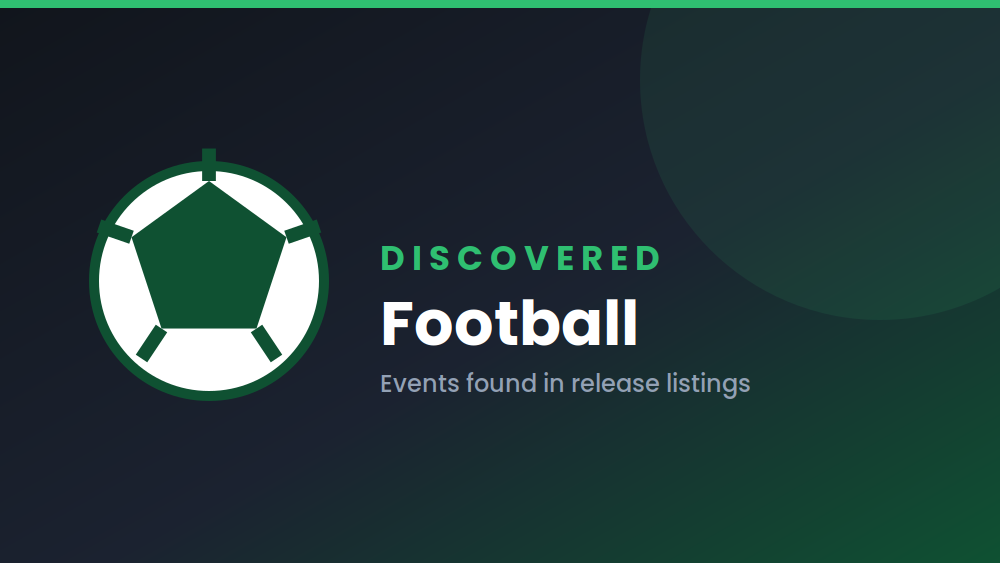
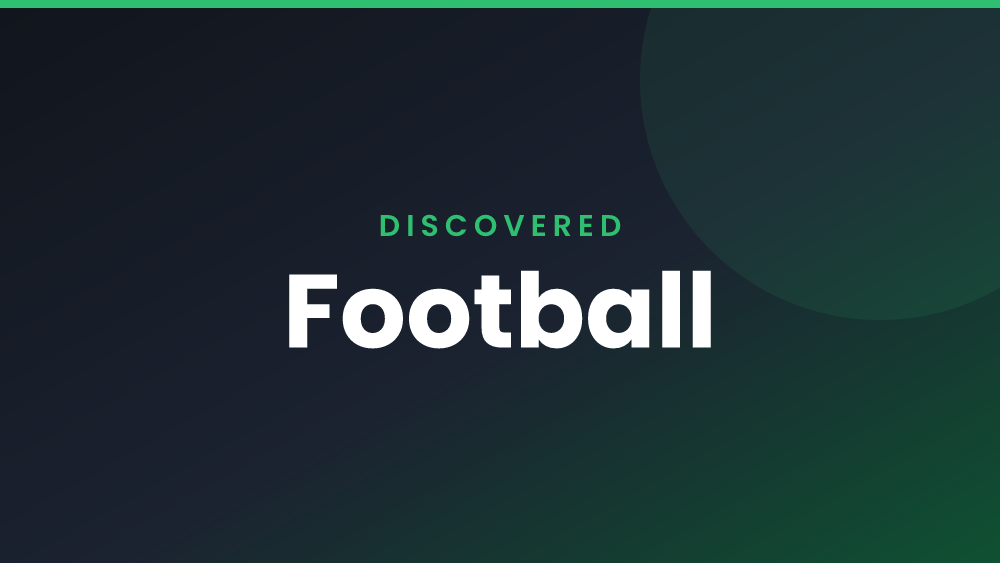
Fallback cards for every promotion, name only
Drop the glyph and the explanation line; each card is now the kicker and
the promotion name. Cards added for NFL, NBA, NHL, Champions League,
Premier League and Match of the Day, and the Discovered tiles are redrawn
in the same style (make-discovered-art.py folded into
make-promotion-art.js).

Changed region(s): [[0.062, 0.2416, 0.713, 0.7247], [0.372, 0.6643, 0.775, 0.7247]]

diff --git a/scripts/make-promotion-art.js b/scripts/make-promotion-art.js
@@ -1,22 +1,23 @@
 #!/usr/bin/env node
 'use strict';
 
-// Generate the bundled fallback artwork for the built-in promotions.
+// Generate the bundled fallback artwork for every built-in promotion and the
+// seven Discovered catalogs.
 //
 // An event with no image of its own is shown with its promotion's default.
 // Those defaults were TheSportsDB league banners and badges from 2014-2020
 // (MotoGP's 2015 banner with the old logo, UFC's 2016 roster, AEW's 2019
-// banner, the old WWE badge) and three plain logo cards, and 128 MotoGP
-// events alone showed that 2015 banner. These cards replace them: drawn from
-// scratch, no league logos, the same frame as the Discovered tiles
-// (scripts/make-discovered-art.py) so every fallback reads as one set.
+// banner, the old WWE badge) and plain logo cards, and 128 MotoGP events
+// alone showed that 2015 banner (issue #69). These cards replace them: a
+// kicker and a name on the same frame for every promotion, no league logos,
+// so every fallback reads as one set.
 //
 // Run from the repo root:
 //   npm i --no-save @resvg/resvg-js
-//   node scripts/make-promotion-art.js [path/to/Poppins-*.ttf folder]
-// Writes public/promo-<id>.png: 1000x563 landscape for every promotion, plus
-// public/promo-<id>-poster.png (600x900) or -square.png (600x600) for the
-// promotions whose tiles are that shape.
+//   node scripts/make-promotion-art.js [folder with Poppins-*.ttf]
+// Writes public/promo-<id>.png (1000x563 landscape) for every promotion, plus
+// promo-<id>-poster.png (600x900) or promo-<id>-square.png (600x600) where the
+// promotion's tiles are that shape, and public/discovered-<sport>.png.
 
 const fs = require('fs');
 const path = require('path');
@@ -25,92 +26,50 @@ const { Resvg } = require('@resvg/resvg-js');
 const OUT = path.join(__dirname, '..', 'public');
 const FONT_DIR = process.argv[2] || path.join(__dirname, 'fonts');
 
-// Glyphs are drawn in a 200x200 box at 0,0; {deep} is the promotion's deep accent.
-const FLAG = `
-  <path d="M34 14 V192" stroke="#ffffff" stroke-width="11" stroke-linecap="round"/>
-  <g transform="translate(40 18)">
-    <path d="M0 0 C40 -10 80 14 150 2 V100 C80 112 40 88 0 98 Z" fill="#ffffff"/>
-    <clipPath id="flagclip"><path d="M0 0 C40 -10 80 14 150 2 V100 C80 112 40 88 0 98 Z"/></clipPath>
-    <g clip-path="url(#flagclip)" fill="{deep}">
-      ${[0, 1, 2, 3, 4].map((c) => [0, 1, 2, 3].filter((r) => (c + r) % 2 === 0)
-        .map((r) => `<rect x="${c * 30}" y="${r * 26 - 10}" width="30" height="${r === 3 ? 34 : 26}"/>`).join('')).join('')}
-    </g>
-  </g>`;
-
-const HELMET = `
-  <clipPath id="helmetclip"><path d="M22 132 C20 66 70 24 126 26 C168 28 192 66 190 110 V136 C190 150 180 160 166 160 H52 C34 160 22 150 22 132 Z"/></clipPath>
-  <path d="M22 132 C20 66 70 24 126 26 C168 28 192 66 190 110 V136 C190 150 180 160 166 160 H52 C34 160 22 150 22 132 Z" fill="#ffffff"/>
-  <path clip-path="url(#helmetclip)" d="M112 66 H200 V108 H122 C113 108 106 101 106 92 V74 C106 69 108 66 112 66 Z" fill="{deep}"/>
-  <path d="M36 132 H150" stroke="{deep}" stroke-width="8" stroke-linecap="round"/>
-  <path d="M52 92 C60 64 84 46 110 42" stroke="{deep}" stroke-width="8" stroke-linecap="round" fill="none"/>`;
-
-function octagon(r) {
-  return Array.from({ length: 8 }, (_, k) => {
-    const a = (Math.PI / 8) + k * Math.PI / 4;
-    return (100 + r * Math.cos(a)).toFixed(1) + ',' + (100 + r * Math.sin(a)).toFixed(1);
-  }).join(' ');
-}
-const OCTAGON = `
-  <polygon points="${octagon(96)}" fill="#ffffff"/>
-  <polygon points="${octagon(78)}" fill="{deep}"/>
-  <polygon points="${octagon(62)}" fill="none" stroke="#ffffff" stroke-width="5" opacity="0.55"/>
-  <path d="M100 38 V162 M38 100 H162" stroke="#ffffff" stroke-width="4" opacity="0.35"/>`;
-
-const GLOVE = `
-  <path d="M64 58 C64 28 94 14 124 18 C164 23 184 54 180 96 C177 126 162 142 144 148 V178 H74 V148 C54 138 44 120 48 102 C38 98 32 86 34 74 C36 58 52 50 64 58 Z" fill="#ffffff"/>
-  <path d="M74 152 H144" stroke="{deep}" stroke-width="9"/>
-  <path d="M74 166 H144" stroke="{deep}" stroke-width="5" opacity="0.6"/>
-  <path d="M62 62 C68 84 80 96 102 98" stroke="{deep}" stroke-width="8" fill="none" stroke-linecap="round"/>`;
-
-const STAR = (cx, cy, r) => {
-  const pts = [];
-  for (let i = 0; i < 10; i++) {
-    const a = -Math.PI / 2 + i * Math.PI / 5;
-    const rr = i % 2 ? r * 0.45 : r;
-    pts.push((cx + rr * Math.cos(a)).toFixed(1) + ',' + (cy + rr * Math.sin(a)).toFixed(1));
-  }
-  return `<polygon points="${pts.join(' ')}" fill="{deep}"/>`;
-};
-const BELT = `
-  <rect x="2" y="78" width="196" height="44" rx="16" fill="#ffffff"/>
-  <path d="M14 100 H186" stroke="{deep}" stroke-width="4" stroke-dasharray="6 8" opacity="0.6"/>
-  <ellipse cx="100" cy="100" rx="62" ry="50" fill="{deep}" stroke="#ffffff" stroke-width="9"/>
-  <ellipse cx="100" cy="100" rx="40" ry="30" fill="#ffffff"/>
-  ${STAR(100, 101, 22)}
-  <circle cx="22" cy="100" r="9" fill="{deep}"/>
-  <circle cx="178" cy="100" r="9" fill="{deep}"/>`;
-
-const BASEBALL = `
-  <circle cx="100" cy="100" r="92" fill="#ffffff"/>
-  <circle cx="100" cy="100" r="92" fill="none" stroke="{deep}" stroke-width="9"/>
-  <path d="M40 26 C74 74 74 126 40 174" stroke="{deep}" stroke-width="8" fill="none"/>
-  <path d="M160 26 C126 74 126 126 160 174" stroke="{deep}" stroke-width="8" fill="none"/>
-  <path d="M52 52 L66 44 M50 74 L65 68 M49 100 L64 100 M50 126 L65 132 M52 148 L66 156"
-        stroke="{deep}" stroke-width="7" stroke-linecap="round"/>
-  <path d="M148 52 L134 44 M150 74 L135 68 M151 100 L136 100 M150 126 L135 132 M148 148 L134 156"
-        stroke="{deep}" stroke-width="7" stroke-linecap="round"/>`;
-
-// id, kicker, title, subtitle, accent, deep accent, glyph, extra shape
-const PROMOTIONS = [
-  ['f1', 'MOTORSPORT', 'Formula 1', 'Practice, qualifying and the race', '#e8352b', '#5c0f0b', FLAG],
-  ['motogp', 'MOTORSPORT', 'MotoGP', 'Grand Prix motorcycle racing', '#ff6a1a', '#6b2508', HELMET],
-  ['ufc', 'MIXED MARTIAL ARTS', 'UFC', 'Numbered events and Fight Nights', '#d93a3a', '#5a1010', OCTAGON],
-  ['one', 'MARTIAL ARTS', 'ONE Championship', 'MMA, Muay Thai and kickboxing', '#f2b705', '#5c4502', OCTAGON],
-  ['boxing', 'COMBAT SPORTS', 'Boxing', 'Title fights and fight nights', '#d4a93a', '#57410c', GLOVE, 'poster'],
-  ['wwe', 'WRESTLING', 'WWE', 'Premium live events', '#e03a45', '#5b0f15', BELT],
-  ['wwe-raw', 'WWE', 'Raw', 'Every Monday', '#e03a45', '#5b0f15', BELT],
-  ['wwe-smackdown', 'WWE', 'SmackDown', 'Every Friday', '#3b82f6', '#102c5c', BELT],
-  ['wwe-nxt', 'WWE', 'NXT', 'Every Tuesday', '#e3c14b', '#4d3f0c', BELT],
-  ['aew', 'WRESTLING', 'AEW', 'Pay-per-views', '#c9a24a', '#4a3a12', BELT],
-  ['aew-dynamite', 'AEW', 'Dynamite', 'Every Wednesday', '#c9a24a', '#4a3a12', BELT],
-  ['aew-collision', 'AEW', 'Collision', 'Every Saturday', '#8b9bb4', '#263247', BELT],
-  ['mlb', 'BASEBALL', 'MLB', 'Regular season and postseason', '#2f80ed', '#10375c', BASEBALL, 'square'],
+// file prefix + id, kicker, title, accent, deep accent, extra tile shape
+const CARDS = [
+  ['promo-f1', 'MOTORSPORT', 'Formula 1', '#e8352b', '#5c0f0b'],
+  ['promo-motogp', 'MOTORSPORT', 'MotoGP', '#ff6a1a', '#6b2508'],
+  ['promo-ufc', 'MIXED MARTIAL ARTS', 'UFC', '#d93a3a', '#5a1010'],
+  ['promo-one', 'MARTIAL ARTS', 'ONE Championship', '#f2b705', '#5c4502'],
+  ['promo-boxing', 'COMBAT SPORTS', 'Boxing', '#d4a93a', '#57410c', 'poster'],
+  ['promo-wwe', 'WRESTLING', 'WWE', '#e03a45', '#5b0f15'],
+  ['promo-wwe-raw', 'WWE', 'Raw', '#e03a45', '#5b0f15'],
+  ['promo-wwe-smackdown', 'WWE', 'SmackDown', '#3b82f6', '#102c5c'],
+  ['promo-wwe-nxt', 'WWE', 'NXT', '#e3c14b', '#4d3f0c'],
+  ['promo-aew', 'WRESTLING', 'AEW', '#c9a24a', '#4a3a12'],
+  ['promo-aew-dynamite', 'AEW', 'Dynamite', '#c9a24a', '#4a3a12'],
+  ['promo-aew-collision', 'AEW', 'Collision', '#8b9bb4', '#263247'],
+  ['promo-mlb', 'BASEBALL', 'MLB', '#2f80ed', '#10375c', 'square'],
+  ['promo-nfl', 'AMERICAN FOOTBALL', 'NFL', '#e2703a', '#6b2410', 'square'],
+  ['promo-nba', 'BASKETBALL', 'NBA', '#f0932b', '#7a3d05', 'square'],
+  ['promo-nhl', 'ICE HOCKEY', 'NHL', '#56ccf2', '#0d3b52', 'square'],
+  ['promo-ucl', 'FOOTBALL', 'Champions League', '#5b7cfa', '#101f5c', 'square'],
+  ['promo-epl', 'FOOTBALL', 'Premier League', '#a855f7', '#3b0f5c', 'square'],
+  ['promo-motd', 'FOOTBALL', 'Match of the Day', '#2fbf71', '#0f5132'],
+  ['discovered-football', 'DISCOVERED', 'Football', '#2fbf71', '#0f5132'],
+  ['discovered-americanfootball', 'DISCOVERED', 'American Football', '#e2703a', '#6b2410'],
+  ['discovered-basketball', 'DISCOVERED', 'Basketball', '#f0932b', '#7a3d05'],
+  ['discovered-baseball', 'DISCOVERED', 'Baseball', '#2f80ed', '#10375c'],
+  ['discovered-hockey', 'DISCOVERED', 'Hockey', '#56ccf2', '#0d3b52'],
+  ['discovered-rugby', 'DISCOVERED', 'Rugby', '#9b5de5', '#3d1c66'],
+  ['discovered-other', 'DISCOVERED', 'Other Sports', '#8d99ae', '#2b2d42'],
 ];
 
 const esc = (s) => String(s).replace(/&/g, '&amp;').replace(/</g, '&lt;');
 
-function background(w, h, accent, deep) {
-  return `<defs>
+// Title size shrinks for long names so it never runs off the card.
+function titleSize(title, room, max) {
+  return Math.min(max, Math.floor(room / (title.length * 0.6)));
+}
+
+function card([, kicker, title, accent, deep], w, h) {
+  const size = titleSize(title, w - 120, w > h ? 104 : 88);
+  const kickerSize = Math.round(w > h ? 30 : 26);
+  const block = kickerSize + 18 + size;
+  const top = Math.round((h - block) / 2) + kickerSize;
+  return `<svg xmlns="http://www.w3.org/2000/svg" width="${w}" height="${h}" viewBox="0 0 ${w} ${h}">
+  <defs>
     <linearGradient id="bg" x1="0" y1="0" x2="1" y2="1">
       <stop offset="0%" stop-color="#11151c"/>
       <stop offset="55%" stop-color="#1b2230"/>
@@ -119,37 +78,9 @@ function background(w, h, accent, deep) {
   </defs>
   <rect width="${w}" height="${h}" fill="url(#bg)"/>
   <rect x="0" y="0" width="${w}" height="8" fill="${accent}"/>
-  <circle cx="${w - 120}" cy="80" r="${Math.round(w * 0.24)}" fill="${accent}" opacity="0.10"/>`;
-}
-
-// Title size shrinks for long names so it never runs off the card.
-function titleSize(title, room, max) {
-  return Math.min(max, Math.floor(room / (title.length * 0.62)));
-}
-
-function landscape([, kicker, title, subtitle, accent, deep, glyph]) {
-  const w = 1000, h = 563;
-  const size = titleSize(title, 560, 72);
-  return `<svg xmlns="http://www.w3.org/2000/svg" width="${w}" height="${h}" viewBox="0 0 ${w} ${h}">
-  ${background(w, h, accent, deep)}
-  <g transform="translate(84 ${(h - 250) / 2}) scale(1.25)">${glyph.replace(/\{deep\}/g, deep)}</g>
-  <text x="380" y="262" font-family="Poppins" font-size="30" font-weight="600" fill="${accent}" letter-spacing="6">${esc(kicker)}</text>
-  <text x="380" y="${262 + 12 + size}" font-family="Poppins" font-size="${size}" font-weight="700" fill="#ffffff">${esc(title)}</text>
-  <text x="380" y="${262 + 12 + size + 44}" font-family="Poppins" font-size="24" fill="#93a1b5">${esc(subtitle)}</text>
-</svg>`;
-}
-
-function stacked([, kicker, title, subtitle, accent, deep, glyph], w, h) {
-  const size = titleSize(title, w - 80, 76);
-  const top = Math.round(h * (h > w ? 0.2 : 0.12));
-  const g = h > w ? 1.4 : 1.1;
-  const below = top + 200 * g + (h > w ? 90 : 60);
-  return `<svg xmlns="http://www.w3.org/2000/svg" width="${w}" height="${h}" viewBox="0 0 ${w} ${h}">
-  ${background(w, h, accent, deep)}
-  <g transform="translate(${(w - 200 * g) / 2} ${top}) scale(${g})">${glyph.replace(/\{deep\}/g, deep)}</g>
-  <text x="${w / 2}" y="${below}" text-anchor="middle" font-family="Poppins" font-size="28" font-weight="600" fill="${accent}" letter-spacing="6">${esc(kicker)}</text>
-  <text x="${w / 2}" y="${below + 12 + size}" text-anchor="middle" font-family="Poppins" font-size="${size}" font-weight="700" fill="#ffffff">${esc(title)}</text>
-  <text x="${w / 2}" y="${below + 12 + size + 42}" text-anchor="middle" font-family="Poppins" font-size="22" fill="#93a1b5">${esc(subtitle)}</text>
+  <circle cx="${w - 120}" cy="80" r="${Math.round(Math.max(w, h) * 0.24)}" fill="${accent}" opacity="0.10"/>
+  <text x="${w / 2}" y="${top}" text-anchor="middle" font-family="Poppins" font-size="${kickerSize}" font-weight="600" fill="${accent}" letter-spacing="6">${esc(kicker)}</text>
+  <text x="${w / 2}" y="${top + 18 + size * 0.9}" text-anchor="middle" font-family="Poppins" font-size="${size}" font-weight="700" fill="#ffffff">${esc(title)}</text>
 </svg>`;
 }
 
@@ -161,10 +92,12 @@ function render(svg, file) {
   console.log('wrote public/' + file);
 }
 
-for (const p of PROMOTIONS) {
-  render(landscape(p), 'promo-' + p[0] + '.png');
-  if (p[7] === 'poster') render(stacked(p, 600, 900), 'promo-' + p[0] + '-poster.png');
-  if (p[7] === 'square') render(stacked(p, 600, 600), 'promo-' + p[0] + '-square.png');
+if (require.main === module) {
+  for (const c of CARDS) {
+    render(card(c, 1000, 563), c[0] + '.png');
+    if (c[5] === 'poster') render(card(c, 600, 900), c[0] + '-poster.png');
+    if (c[5] === 'square') render(card(c, 600, 600), c[0] + '-square.png');
+  }
 }
 
-module.exports = { PROMOTIONS };
+module.exports = { CARDS };

diff --git a/lib/promotions.js b/lib/promotions.js
@@ -3221,14 +3221,8 @@ const matchOfTheDay = createGenericPromotion({
   source: 'tmdb',
   tvId: '224',
   posterShape: 'landscape',
-  poster: brandedPoster(
-    'motd-placeholder.png',
-    'https://raw.githubusercontent.com/Monkfish1337/Serioussportsync/main/public/motd-placeholder.png'
-  ),
-  fanart: brandedPoster(
-    'motd-placeholder.png',
-    'https://raw.githubusercontent.com/Monkfish1337/Serioussportsync/main/public/motd-placeholder.png'
-  ),
+  poster: bundledArt('promo-motd.png'),
+  fanart: bundledArt('promo-motd.png'),
   searchTitleTemplates: ['{name}'],
   relevanceKeywords: ['match of the day'],
   requireDateInTitle: true,
@@ -3364,6 +3358,8 @@ mlb.genres = function mlbGenres() {
 // It needs no provider account or key and can still be reassigned in Metadata.
 const championsLeague = createGenericPromotion({
   id: 'ucl',
+  poster: bundledArt('promo-ucl-square.png'),
+  fanart: bundledArt('promo-ucl.png'),
   name: 'UEFA Champions League',
   idPrefix: 'ucl',
   source: 'uefa',
@@ -3468,6 +3464,8 @@ championsLeague.genres = function championsLeagueGenres() {
 // they reuse its query shape rather than inventing another.
 const nfl = createGenericPromotion({
   id: 'nfl',
+  poster: bundledArt('promo-nfl-square.png'),
+  fanart: bundledArt('promo-nfl.png'),
   name: 'NFL',
   idPrefix: 'nfl',
   source: 'espn',
@@ -3510,6 +3508,8 @@ nfl.uuMaxQueries = 6;
 
 const nba = createGenericPromotion({
   id: 'nba',
+  poster: bundledArt('promo-nba-square.png'),
+  fanart: bundledArt('promo-nba.png'),
   name: 'NBA',
   idPrefix: 'nba',
   source: 'espn',
@@ -3544,6 +3544,8 @@ nba.uuMaxQueries = 6;
 // only a slice of an 82-game-per-team season.
 const nhl = createGenericPromotion({
   id: 'nhl',
+  poster: bundledArt('promo-nhl-square.png'),
+  fanart: bundledArt('promo-nhl.png'),
   name: 'NHL',
   idPrefix: 'nhl',
   source: 'espn',
@@ -3594,6 +3596,8 @@ const footballLeagues = FOOTBALL_LEAGUES.map((league) => {
     idPrefix: league.id,
     source: 'football-data',
     competitionId: league.code,
+    poster: bundledArt('promo-' + league.id + '-square.png'),
+    fanart: bundledArt('promo-' + league.id + '.png'),
     // Square — football-data supplies a club crest and nothing else, and a
     // crest is square. See the note on the MLB promotion above.
     posterShape: 'square',
@@ -3645,7 +3649,7 @@ const discoveredPromotions = Object.keys(releaseIngest.SPORTS).map((sport) => {
     source: 'sport-video',
     sport,
     posterShape: 'landscape',
-    // One bundled mark per sport, drawn by scripts/make-discovered-art.py.
+    // One bundled card per sport, drawn by scripts/make-promotion-art.js.
     // All seven used to fall back to the SSS banner, which put seven visually
     // identical rows on the home screen with nothing to tell them apart.
     //

diff --git a/test/promotion-artwork.test.js b/test/promotion-artwork.test.js
@@ -18,7 +18,7 @@ const promotions = require('../lib/promotions');
 const transform = require('../lib/transform');
 
 const BUILT_IN = ['f1', 'motogp', 'ufc', 'one', 'boxing', 'wwe', 'wwe-raw', 'wwe-smackdown', 'wwe-nxt',
-  'aew', 'aew-dynamite', 'aew-collision', 'mlb'];
+  'aew', 'aew-dynamite', 'aew-collision', 'mlb', 'nfl', 'nba', 'nhl', 'ucl', 'epl', 'motd'];
 const byId = (id) => promotions.all.find((p) => p.id === id);
 
 test('every built-in promotion falls back to its own bundled card, never a TheSportsDB league image', () => {
@@ -34,7 +34,9 @@ test('every built-in promotion falls back to its own bundled card, never a TheSp
     seen.add(poster);
   }
   assert.match(byId('boxing').defaults.poster, /promo-boxing-poster\.png$/, 'portrait tiles get a portrait card');
-  assert.match(byId('mlb').defaults.poster, /promo-mlb-square\.png$/, 'square tiles get a square card');
+  for (const id of ['mlb', 'nfl', 'nba', 'nhl', 'ucl', 'epl']) {
+    assert.match(byId(id).defaults.poster, new RegExp('promo-' + id + '-square\.png$'), 'square tiles get a square card');
+  }
 });
 
 test('a stored league image or old bundled card is served as the current default', () => {

diff --git a/lib/transform.js b/lib/transform.js
@@ -25,7 +25,7 @@ function nonWiki(url) {
 // SSS. Events keep whatever default their promotion had when they were
 // ingested, so 128 MotoGP events still showed the 2015 league banner after
 // the defaults changed. These are replaced by the promotion's current default.
-const STORED_FALLBACK = /thesportsdb\.com\/images\/media\/league\/|\/assets\/[\w-]+-upcoming\.jpg$|\/assets\/(?:promo|discovered)-[\w-]+\.png$|raw\.githubusercontent\.com\/Monkfish1337\/Serioussportsync\/[^/]+\/public\//i;
+const STORED_FALLBACK = /thesportsdb\.com\/images\/media\/league\/|\/assets\/[\w-]+-upcoming\.jpg$|\/(?:assets|public)\/(?:promo-[\w-]+|discovered-[\w-]+|motd-placeholder)\.png$|raw\.githubusercontent\.com\/Monkfish1337\/Serioussportsync\/[^/]+\/public\//i;
 function eventArt(url) {
   return (url && !STORED_FALLBACK.test(url)) ? nonWiki(url) : null;
 }

diff --git a/CHANGELOG.md b/CHANGELOG.md
@@ -2,13 +2,13 @@
 
 ## Unreleased
 
-- New fallback artwork for F1, MotoGP, UFC, ONE, Boxing, WWE (plus Raw,
-  SmackDown and NXT), AEW (plus Dynamite and Collision) and MLB, drawn in the
-  same style as the Discovered tiles. They replace TheSportsDB league banners
-  and badges from 2014-2020 and the plain logo cards. Events that had an old
-  default saved at ingest now show the new one; this covered 128 MotoGP events
-  still showing the 2015 banner. Without PUBLIC_URL the cards are served from
-  the repository, so no tile is blank (#69).
+- New fallback artwork for every built-in promotion and weekly show, plus the
+  Discovered tiles: the promotion's name on a plain card, with portrait and
+  square versions where the tile is that shape. It replaces TheSportsDB league
+  banners and badges from 2014-2020 and the old logo cards. Events that had an
+  old default saved at ingest now show the new one; this covered 128 MotoGP
+  events still showing the 2015 banner. Without PUBLIC_URL the cards are served
+  from the repository, so no tile is blank (#69).
 
 ## 1.3.2 — 2026-09-28
 
